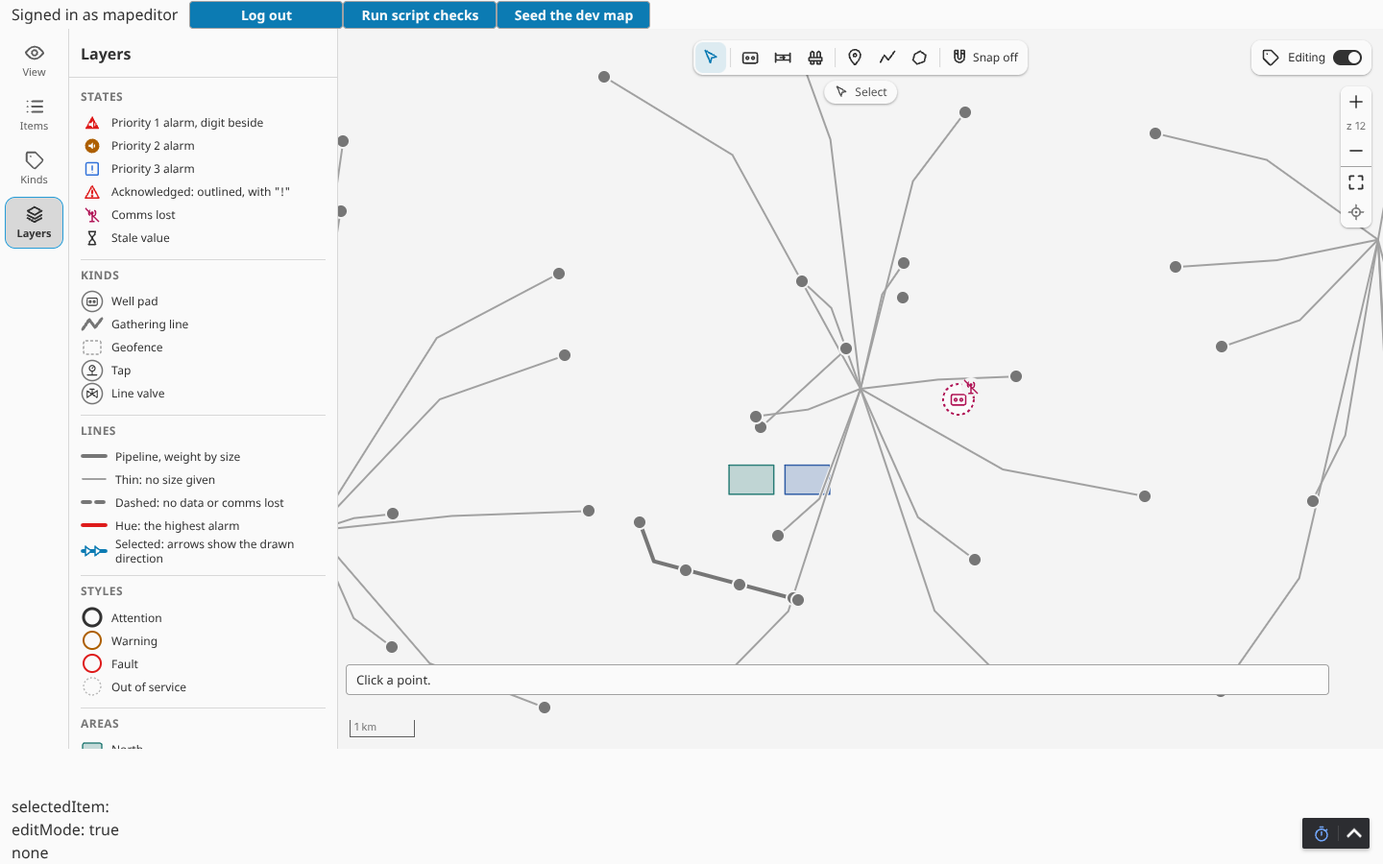
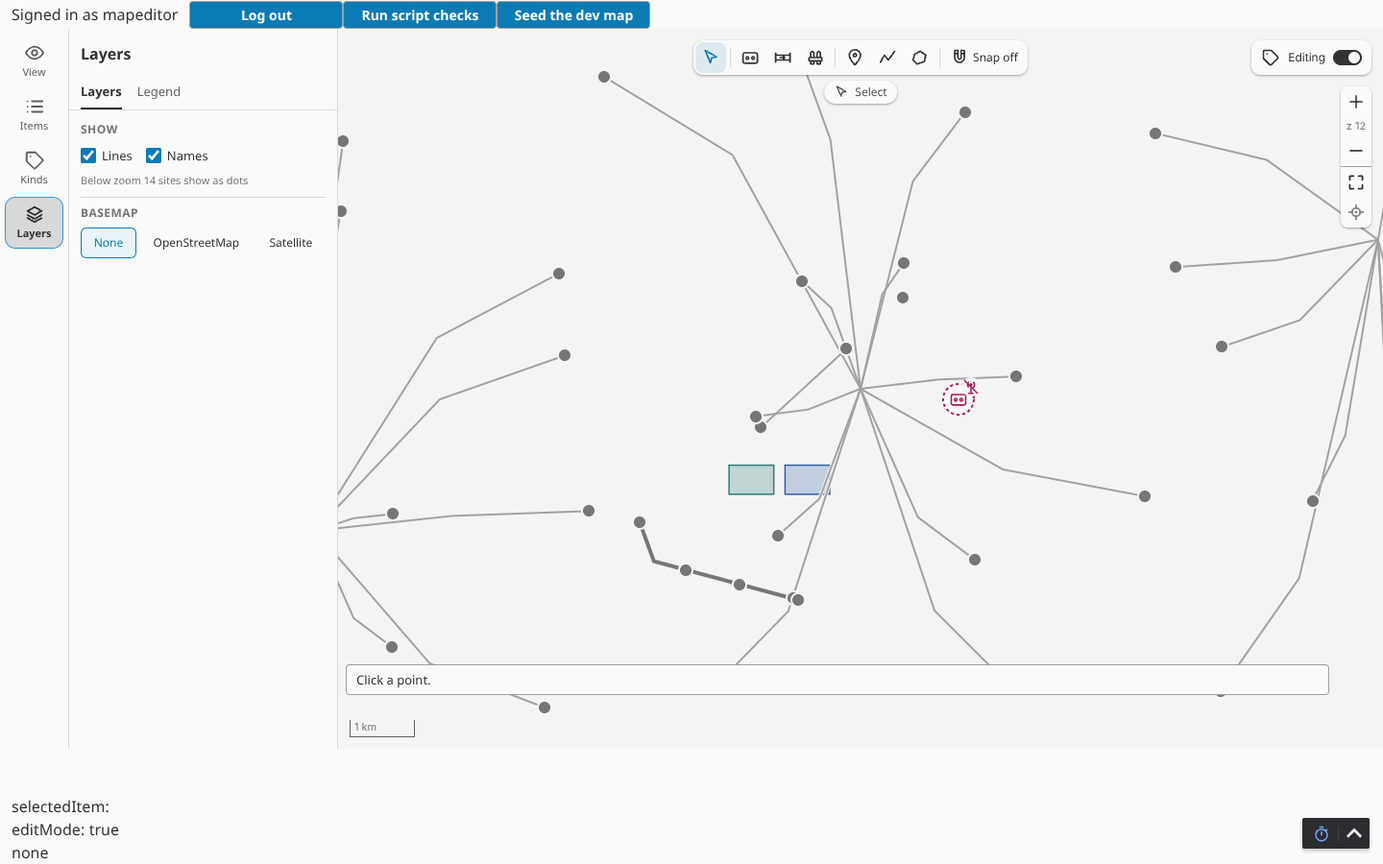
Epic 4 entry 22: the Layers surface's two tabs, Layers and Legend
The owner's "2, the tabs" after the Layers options sheet: under the
surface's header the properties panel's tab row, the Layers tab first
and open on every entry to Edit mode (Show, then Basemap with more than
one basemap) and the Legend tab (the key alone); the chosen tab stays
while Edit mode stays. The legend control's docked host draws the open
tab's part from the same state through the same callbacks, never open;
the floating panel draws everything as before.

studio.spec.mjs follows the tabs and adds the Legend tab row; the Layers
renders are one per tab at 1366 and 1440 px (the scrolled ones removed);
the contract and the changelog say two tabs.

Claude-Session: https://claude.ai/code/session_01F9eVq2qqbKx1YxrgoxuWT6

Changed region(s): [[0.0625, 0.0933, 0.2188, 0.8711]]

diff --git a/web/typescript/MapStudio.tsx b/web/typescript/MapStudio.tsx
@@ -17,7 +17,7 @@ import { EditLevel, MapItemRecord } from './contract';
 import { AdapterStatus, HostLists, NO_HOST_LISTS } from './adapters';
 import { BasemapId, RasterSource } from './basemaps';
 import { EditSwitch } from './EditSwitch';
-import { LegendControl } from './LegendControl';
+import { DockPart, LegendControl } from './LegendControl';
 import { LegendToggle, readToggle, sessionStore, writeToggle } from './legend';
 import { NeedsYouControl } from './NeedsYouControl';
 import { NeedsYouRow } from './needsyou';
@@ -107,6 +107,10 @@ export interface ToastState {
     key: number;
 }
 
+/** The rail's Layers surface's tabs (epic 4 entry 22, the owner's "2, the tabs"): Layers (Show, Basemap) first, then Legend (the key). */
+export type LayersTab = 'layers' | 'legend';
+const LAYERS_TABS: Array<[LayersTab, string]> = [['layers', 'Layers'], ['legend', 'Legend']];
+
 export interface MapStudioState {
     /** The line or area being drawn vertex by vertex (epic 4 entry 4, drawing.ts), or null. */
     drawing: Drawing | null;
@@ -134,6 +138,8 @@ export interface MapStudioState {
      * kept in lock-step with `drawing` and `selected` through drawingState, toolState and selectionState (functional setState).
      */
     studio: StudioState;
+    /** The Layers surface's open tab (entry 22): it stays while Edit mode stays, and every entry to Edit mode opens on Layers. */
+    layersTab: LayersTab;
 }
 
 export type Props = ComponentProps<MapStudioProps, MapStudioDelegateState>;
@@ -160,7 +166,7 @@ function clientLocationWords(store: AbstractUIElementStore): string {
 export class MapStudio extends Component<Props, MapStudioState> {
     state: MapStudioState = {
         drawing: null, snap: false, snapHint: '', toast: null, popup: null, clock: Date.now(), pick: null, selected: null, panel: null,
-        studio: fromProps(this.props.props.editMode)
+        studio: fromProps(this.props.props.editMode), layersTab: 'layers'
     };
 
     mapContainer: HTMLDivElement | null = null;
@@ -247,8 +253,10 @@ export class MapStudio extends Component<Props, MapStudioState> {
     popupAnchor: PopupAnchor | null = null;
     /** The legend bottom-left, which holds the basemap choice (epic 3 entries 6 and 14), and the basemap revision last drawn. */
     legendControl: LegendControl | null = null;
-    /** The rail's Layers surface's host for the docked legend (epic 4 entry 22) while it is mounted, else null. */
+    /** The rail's Layers surface's open tab panel, the docked legend's host (epic 4 entry 22), while it is mounted, else null. */
     private layersHost: HTMLDivElement | null = null;
+    /** The Layers surface's tab and tab panel ids, unique to this component (two maps may share a page). */
+    private readonly layersTabsId = 'mapstudio-layers-' + Math.random().toString(36).slice(2, 8);
     /** The Mapbox logo control, bottom-right, while Satellite is drawn. */
     logoControl: MapboxLogoControl | null = null;
     drawnBasemap = -1;
@@ -307,7 +315,7 @@ export class MapStudio extends Component<Props, MapStudioState> {
         this.legendControl = controls.legend;
         if (this.layersHost) {
             // The Layers surface mounted before the control existed (entry 22): the docked legend is drawn into it now.
-            this.legendControl.dock(this.layersHost);
+            this.legendControl.dock(this.layersHost, this.dockPart());
         }
         // Mapbox's "Improve this map" carries the map's position (its attribution guide): after the control
         // rebuilds its links (its listeners run first) and after every move.
@@ -495,7 +503,8 @@ export class MapStudio extends Component<Props, MapStudioState> {
         if (!on) {
             editing.putToolDown(this);
         }
-        this.setState((prev) => ({ studio: on ? enterEdit(prev.studio) : leaveEdit(prev.studio), toast: on ? prev.toast : null }));
+        this.setState((prev) => ({ studio: on ? enterEdit(prev.studio) : leaveEdit(prev.studio), toast: on ? prev.toast : null,
+            layersTab: on ? 'layers' : prev.layersTab }));
         if (writeProp) {
             try {
                 this.props.store.props.write('editMode', on);
@@ -1069,30 +1078,50 @@ export class MapStudio extends Component<Props, MapStudioState> {
     }
 
     /**
-     * The Layers surface's host for the docked legend (entry 22), handed to the legend control as it mounts and taken back
-     * (null) as it unmounts; the control draws into it and React renders nothing inside it.
+     * The Layers surface's open tab panel, the docked legend's host (entry 22), handed to the legend control as it mounts
+     * and taken back (null) as it unmounts; the control draws the tab's part into it and React renders nothing inside it.
+     * The panel is keyed by the tab, so choosing the other tab mounts a new one with the other part.
      */
     private setLayersHost = (el: HTMLDivElement | null): void => {
         this.layersHost = el;
         if (this.legendControl) {
-            this.legendControl.dock(el);
+            this.legendControl.dock(el, this.dockPart());
         }
     };
 
+    /** The legend's part the open tab shows: the Layers tab the controls (Show, Basemap), the Legend tab the key. */
+    private dockPart(): DockPart {
+        return this.state.layersTab === 'legend' ? 'key' : 'controls';
+    }
+
+    private onLayersTab = (tab: LayersTab): void => this.setState({ layersTab: tab });
+
     /**
-     * The rail's surface (entry 2): the item list with the panel header; Layers, the legend's desktop content docked
-     * (entry 22: the key, Show and Basemap, drawn by the legend control from the panel's own state); or the empty Kinds
-     * surface until its entry. Each surface is keyed, so switching remounts it and the legend's host comes and goes whole.
+     * The rail's surface (entry 2): the item list with the panel header; Layers, the legend's desktop content docked under
+     * two tabs as the properties panel's (entry 22: the Layers tab Show and Basemap, the Legend tab the key, drawn by the
+     * legend control from the panel's own state); or the empty Kinds surface until its entry. Each surface is keyed, so
+     * switching remounts it and the legend's host comes and goes whole.
      */
     private renderDock(delegate: MapStudioDelegateState): React.ReactNode {
         const surface = this.state.studio.surface;
         if (surface === 'layers') {
+            const tab = this.state.layersTab;
+            const id = this.layersTabsId;
             return (
-                <section key="layers" className="mapstudio-dock mapstudio-dock--layers" aria-label="Layers" data-surface="layers">
+                <section key="layers" className="mapstudio-dock mapstudio-dock--layers" aria-label="Layers" data-surface="layers" data-tab={tab}>
                     <header className="mapstudio-dock-header">
                         <div className="mapstudio-dock-title-row"><h2 className="mapstudio-dock-title">Layers</h2></div>
                     </header>
-                    <div className="mapstudio-dock-legend" ref={this.setLayersHost} />
+                    <div className="mapstudio-panel-tabs" role="tablist" aria-label="Layers">
+                        {LAYERS_TABS.map(([key, label]) => (
+                            <button key={key} type="button" role="tab" id={id + '-' + key} data-tab={key} aria-selected={tab === key}
+                                    aria-controls={id + '-panel'}
+                                    className={'mapstudio-panel-tab' + (tab === key ? ' mapstudio-panel-tab--active' : '')}
+                                    onClick={() => this.onLayersTab(key)}>{label}</button>
+                        ))}
+                    </div>
+                    <div key={tab} id={id + '-panel'} className="mapstudio-dock-legend" role="tabpanel" aria-labelledby={id + '-' + tab}
+                         ref={this.setLayersHost} />
                 </section>
             );
         }

diff --git a/web/typescript/LegendControl.ts b/web/typescript/LegendControl.ts
@@ -23,8 +23,9 @@
  * One legend, two places (epic 4 entry 22, the owner's render C of the legend review): in Edit mode the Legend
  * button and its panel leave the map (the stylesheet hides the button from 768 px, the component closes an open
  * panel as the studio comes on) and the rail's Layers surface hands the control a host (`dock`), which the same
- * `fill` draws the desktop content into (the key, Show and Basemap) from the same state, so every setter redraws
- * both, and a toggle or a basemap picked there goes through the same callbacks. The docked copy is never "open":
+ * `fill` draws one part of the desktop content into from the same state: on the surface's Layers tab the controls
+ * (Show, then Basemap), on its Legend tab the key (owner, "2, the tabs"), so every setter redraws both places, and
+ * a toggle or a basemap picked there goes through the same callbacks. The docked copy is never "open":
  * it calls no `onToggle` (`data-legend-open`), `isOpen` is the panel's alone (a map click closes the panel only),
  * it takes no focus when it is drawn and it keeps its own focused control across a redraw.
  */
@@ -78,6 +79,8 @@ interface LegendHost {
     root: HTMLDivElement;
     /** The Layers surface's copy: always the desktop layout (no sheet, no handle or Close), never "open". */
     docked: boolean;
+    /** What it draws: the panel everything; the docked copy its tab's part. */
+    part: 'all' | DockPart;
     body: HTMLDivElement | null;
     basemapGroup: HTMLDivElement | null;
     status: HTMLDivElement | null;
@@ -87,8 +90,11 @@ interface LegendHost {
     closeButton: HTMLButtonElement | null;
 }
 
-function newHost(root: HTMLDivElement, docked: boolean): LegendHost {
-    return { root, docked, body: null, basemapGroup: null, status: null, buttons: new Map(), checkboxes: new Map(), kindsButton: null, closeButton: null };
+/** The part the Layers surface's tab shows (entry 22): `controls` on the Layers tab (Show, Basemap), `key` on the Legend tab. */
+export type DockPart = 'controls' | 'key';
+
+function newHost(root: HTMLDivElement, docked: boolean, part: 'all' | DockPart): LegendHost {
+    return { root, docked, part, body: null, basemapGroup: null, status: null, buttons: new Map(), checkboxes: new Map(), kindsButton: null, closeButton: null };
 }
 
 export class LegendControl implements IControl {
@@ -179,7 +185,7 @@ export class LegendControl implements IControl {
         panel.setAttribute('role', 'region');
         panel.setAttribute('aria-label', 'Legend');
         this.container.insertBefore(panel, this.container.firstChild);
-        this.panel = newHost(panel, false);
+        this.panel = newHost(panel, false, 'all');
         this.button.setAttribute('aria-expanded', 'true');
         this.fill(this.panel);
         // The panel follows the phone breakpoint while it is open (a rotated phone, a resized window).
@@ -197,14 +203,14 @@ export class LegendControl implements IControl {
     }
 
     /**
-     * The docked copy in the rail's Layers surface (entry 22): with an element (the surface's host, as it mounts) the
-     * desktop content is drawn into a wrapper inside it, from the same state as the panel, and every setter redraws it;
-     * with null (the surface unmounting, Edit mode left) it leaves, its listeners taken off. It never takes the focus,
-     * calls no `onToggle` and does not count for `isOpen`.
+     * The docked copy in the rail's Layers surface (entry 22): with an element (the open tab's panel, as it mounts) one
+     * part of the desktop content, the controls or the key, is drawn into a wrapper inside it, from the same state as the
+     * panel, and every setter redraws it; with null (the surface unmounting, Edit mode left) it leaves, its listeners
+     * taken off. It never takes the focus, calls no `onToggle` and does not count for `isOpen`.
      */
-    dock(host: HTMLElement | null): void {
+    dock(host: HTMLElement | null, part: DockPart = 'controls'): void {
         const docked = this.docked;
-        if (docked && host && docked.root.parentNode === host) {
+        if (docked && host && docked.root.parentNode === host && docked.part === part) {
             return;
         }
         if (docked) {
@@ -219,8 +225,9 @@ export class LegendControl implements IControl {
         }
         const root = document.createElement('div');
         root.className = 'mapstudio-legend-dock';
+        root.setAttribute('data-part', part);
         host.appendChild(root);
-        this.docked = newHost(root, true);
+        this.docked = newHost(root, true, part);
         this.fill(this.docked);
     }
 
@@ -295,10 +302,15 @@ export class LegendControl implements IControl {
             body.appendChild(columns);
             this.renderKey(host, columns);
         } else {
-            // Sections in order: the key in the map's words (States first), Show, then Basemap when there is a choice.
-            this.renderKey(host, body);
-            this.renderShow(host, body);
-            if (offersBasemapSwitch(this.offered)) {
+            // Sections in order: the key in the map's words (States first), Show, then Basemap when there is a choice; the
+            // docked copy draws the key alone (the Legend tab) or Show and Basemap alone (the Layers tab).
+            if (host.part !== 'controls') {
+                this.renderKey(host, body);
+            }
+            if (host.part !== 'key') {
+                this.renderShow(host, body);
+            }
+            if (host.part !== 'key' && offersBasemapSwitch(this.offered)) {
                 const basemap = this.section(body, 'Basemap', 'mapstudio-legend-section--basemap');
                 const group = document.createElement('div');
                 group.className = 'mapstudio-basemap-group';

diff --git a/web/typescript/mapstudio.css b/web/typescript/mapstudio.css
@@ -2550,9 +2550,10 @@
     color: var(--mapstudio-secondary);
 }
 
-/* The rail's Layers surface (entry 22): under the header the legend's desktop content as the panel draws it (the key,
-   Show and Basemap), docked: no card, no shadow or corner, no floating width or height, as wide as the dock; its body
-   scrolls inside the dock under the header, as the item list does. The key's rows and samples keep the panel's rules. */
+/* The rail's Layers surface (entry 22): under the header and its tabs the legend's desktop content as the panel draws it
+   (the open tab's part: Show and Basemap, or the key), docked: no card, no shadow or corner, no floating width or height,
+   as wide as the dock; its body scrolls inside the dock under the tabs, as the item list does. The key's rows and samples
+   keep the panel's rules. */
 .mapstudio-dock-legend,
 .mapstudio .mapstudio-legend-dock {
     display: flex;
@@ -2568,6 +2569,16 @@
 
 .mapstudio .mapstudio-legend-dock .mapstudio-legend-body {
     padding: 12px;
+}
+
+/* Its two tabs under the header (the owner's "2, the tabs"): the properties panel's tabs (`.mapstudio-panel-tabs`), whose
+   rule is the header's own here, at the dock's 12 px gutter; the Layers tab holds Show and Basemap, the Legend tab the key. */
+.mapstudio-dock--layers .mapstudio-dock-header {
+    border-bottom: none;
+}
+
+.mapstudio-dock--layers .mapstudio-panel-tabs {
+    padding: 0 12px;
 }
 
 .mapstudio-dock-note,

diff --git a/docs/contract.md b/docs/contract.md
@@ -171,7 +171,7 @@ Not a message, but what a project may rely on. A point map item draws its kind's
 
 **Edit mode's top row and the Items list's search (epic 4 entry 21, the owner's option B; DESIGN.md Edit mode, Direction A, key screen 4).** While the studio shows (Edit mode at level `full`, 768 px and wider) the View-mode top bar, the search field and the Needs you bar in its row with their lists, is hidden (`.mapstudio--editing .mapstudio-topbar`; the controls stay in the DOM for View mode), and the floating toolbar takes the top row at the map inset, centred over the map, level with the Edit switch and clear of it and the zoom card with the properties panel docked (measured on the dev stack with the panel docked: the 348 px toolbar ends 48 px before the switch on the 718 px map at 1366 px, 63 px before it on the 748 px map at 1440 px), the mode pill under it and the connection chip under the pill. Below 1280 px, where DESIGN.md collapses the list to a button (entry 7's), the toolbar keeps entry 4's row under the Edit switch and the chip moves down with it, until that collapse returns the top row there. View mode and phone widths (which keep View mode) draw the top bar as before (the rule that hides it holds from 768 px only); leaving Edit mode shows it again, and as the studio comes on, however it came (the switch, the page's `editMode`, the level arriving), an open search or Needs you list closes, so nothing comes back open (the search keeps its text). The Legend button leaves the map too, and the legend is the rail's Layers surface (entry 22, below). In Edit mode the Needs you summary is hidden while the list's state badges and the markers keep every alarm, comms lost and stale state; View mode is unchanged; this is flagged for the owner's ER-27 review before 0.4.0 ([review-er27.md](review-er27.md), section 4). In Edit mode the search is the Items list's **Search items** field, under the list header's title row: a search glyph, the placeholder "Search items" (its accessible name "Search items by name, kind or asset") and a Clear button while it holds text. Typing keeps the rows whose name, kind name or linked asset's name (from `map.load.reply`'s `assetNames`, as the View-mode search reads them) holds the text, compared as the View-mode search compares (letter case and accents aside), in the list's own order; with none it says "No matches". Esc in the field empties it and goes no further (Details and the selection stay; with the field empty Esc closes Details as before); Clear empties it and keeps the focus in the field; a filtered row is the same row button, so choosing it selects, pans and opens Details as any row does. The text is the list's own and starts empty when the list mounts. Everything runs in the browser: no message goes to the Gateway for it. Sort by, the Filter chips, the grouping by place and the list's footer are entry 7's. For tests the field is `.mapstudio-list-search` (the input `.mapstudio-list-search-input`, the glyph `.mapstudio-list-search-glyph`, Clear `.mapstudio-list-search-clear`), `.mapstudio-list`'s `data-rows` counts the rows shown, each row is `.mapstudio-list-row` (`data-item-id`, `data-kind`, `data-state`, `aria-current` on the selected one), and "No matches" is `.mapstudio-list-empty--search` **[live 8.3.10]** (`e2e/tests/studio.spec.mjs`). Screenshots from the dev stack: [the top row at 1366 px with Details docked](screenshots/mapstudio-studio-top-row-1366.png), [at 1440 px](screenshots/mapstudio-studio-top-row-1440.png), [the connection chip under the pill](screenshots/mapstudio-studio-top-row-chip-1366.png) and [the list filtered by "swd"](screenshots/mapstudio-studio-search-1366.png).
 
-**The legend in the rail's Layers surface (epic 4 entry 22, the owner's render C of the legend review).** While the studio shows (Edit mode at level `full`, 768 px and wider) the Legend button leaves the map as the top bar does (`.mapstudio--editing .mapstudio-legend-button`, hidden from 768 px; the control stays in the DOM for View mode) and the scale bar stays bottom-left alone at the map inset, its bottom edge where the button's was; a Legend panel open as the studio comes on, however it came (the switch, the page's `editMode`, the level arriving), closes and the focus leaves it, so nothing comes back open. The rail's Layers surface, until now "Nothing here yet", is the dock titled Layers, as wide as the list (256 px at 1366, 280 px from 1440), holding the legend's desktop content as the panel draws it and from the same state: the key (States, Kinds, Lines, and Styles and Areas when a kind setup turns them on), Show (the Lines and Names checkboxes and the zoom 14 note) and, only when the setup lists more than one basemap, Basemap with the refusal or tile status in words under its buttons. It is docked, not a card: flat on the dock with no shadow, corner or floating size, its body scrolling inside the dock under the header. A toggle or a basemap picked there goes through the panel's own callbacks, so it acts and is remembered exactly as in the panel (the toggles for the browser session, "The legend's key and toggles" below; the basemap as the browser's choice, [basemaps.md](basemaps.md)), and View mode's panel shows it once Edit mode is left. The docked legend is never open: it leaves `data-legend-open` to the panel, and a map click, which closes the panel, leaves it be. View mode and phone widths (which keep View mode) keep the Legend button with its panel or sheet as before. The Units row (entry 19) is not in it yet. Everything runs in the browser: no message, prop or contract version changes. For tests the surface is `.mapstudio-dock--layers` (`data-surface="layers"`) and the legend in it `.mapstudio-legend-dock`, holding the panel's own hooks (`.mapstudio-legend-body`, `.mapstudio-legend-section--states` and the other sections, `.mapstudio-legend-heading`, the key's rows, `.mapstudio-legend-toggle` with `data-toggle`, `.mapstudio-basemap-button` with `data-basemap` and `aria-pressed`, `.mapstudio-basemap-status`) **[live 8.3.10]** (`e2e/tests/studio.spec.mjs`). Screenshots from the dev stack: [Layers at 1366 px](screenshots/mapstudio-studio-layers-1366.png), [scrolled to Show and Basemap](screenshots/mapstudio-studio-layers-end-1366.png) and [at 1440 px](screenshots/mapstudio-studio-layers-1440.png).
+**The legend in the rail's Layers surface (epic 4 entry 22, the owner's render C of the legend review).** While the studio shows (Edit mode at level `full`, 768 px and wider) the Legend button leaves the map as the top bar does (`.mapstudio--editing .mapstudio-legend-button`, hidden from 768 px; the control stays in the DOM for View mode) and the scale bar stays bottom-left alone at the map inset, its bottom edge where the button's was; a Legend panel open as the studio comes on, however it came (the switch, the page's `editMode`, the level arriving), closes and the focus leaves it, so nothing comes back open. The rail's Layers surface, until now "Nothing here yet", is the dock titled Layers, as wide as the list (256 px at 1366, 280 px from 1440), holding the legend's desktop content as the panel draws it and from the same state, under two tabs that look and behave as the properties panel's (the owner's "2, the tabs"; `role="tablist"`, the open tab underlined): the **Layers** tab, first and open on every entry to Edit mode, holds Show (the Lines and Names checkboxes and the zoom 14 note) and, only when the setup lists more than one basemap, Basemap with the refusal or tile status in words under its buttons; the **Legend** tab holds the key alone (States, Kinds, Lines, and Styles and Areas when a kind setup turns them on). The chosen tab stays while Edit mode stays (another rail surface and back keeps it). It is docked, not a card: flat on the dock with no shadow, corner or floating size, its body scrolling inside the dock under the tabs. A toggle or a basemap picked there goes through the panel's own callbacks, so it acts and is remembered exactly as in the panel (the toggles for the browser session, "The legend's key and toggles" below; the basemap as the browser's choice, [basemaps.md](basemaps.md)), and View mode's panel shows it once Edit mode is left. The docked legend is never open: it leaves `data-legend-open` to the panel, and a map click, which closes the panel, leaves it be. View mode and phone widths (which keep View mode) keep the Legend button with its panel or sheet as before. The Units row (entry 19) is not in it yet. Everything runs in the browser: no message, prop or contract version changes. For tests the surface is `.mapstudio-dock--layers` (`data-surface="layers"`, `data-tab` the open tab, `layers` or `legend`), its tabs `.mapstudio-panel-tab` with `role="tab"`, `data-tab` and `aria-selected`, the open tab's panel `[role="tabpanel"]`, and the legend in it `.mapstudio-legend-dock` (`data-part`: `controls` on the Layers tab, `key` on the Legend tab), holding the panel's own hooks (`.mapstudio-legend-body`, `.mapstudio-legend-section--states` and the other sections, `.mapstudio-legend-heading`, the key's rows, `.mapstudio-legend-toggle` with `data-toggle`, `.mapstudio-basemap-button` with `data-basemap` and `aria-pressed`, `.mapstudio-basemap-status`) **[live 8.3.10]** (`e2e/tests/studio.spec.mjs`). Screenshots from the dev stack: [the Layers tab at 1366 px](screenshots/mapstudio-studio-layers-1366.png) and [at 1440 px](screenshots/mapstudio-studio-layers-1440.png), [the Legend tab at 1366 px](screenshots/mapstudio-studio-layers-legend-1366.png) and [at 1440 px](screenshots/mapstudio-studio-layers-legend-1440.png).
 
 **Search (epic 3 entry 9, R4).** A search field sits top-left (DESIGN.md `search-field`: 300 by 40 px, the placeholder "Search assets", its accessible name "Search sites, wells or lines"), the View-mode top bar that entry 3 shares with the Needs you summary. It is View mode's: while the studio shows, the bar is hidden and the search is the Items list's Search items field (epic 4 entry 21, "Edit mode's top row" above); at phone widths, which keep View mode, it stays. A chevron in the field (owner review item 8) opens one alphabetical list of every live map item (no groups and no attention order), and ArrowDown in the empty field opens the same list for the keyboard. As the user types it lists the live map items whose name or linked asset's name holds the text, without regard to letter case or accents, ranked: a name that starts with the text first, then an asset name that does, then the names that hold it, then the asset names that do, by name within each, every match listed (the list scrolls inside its card, 50 vh at most, and is drawn in pages of 50 rows as it scrolls, so a 300-site field opens fast; End and the arrow keys reach rows not drawn yet), each row with the kind's glyph, the name and the kind (or "kind - asset" when the asset matched); with no match it says "No matches". Everything runs in the browser from `map.load.reply` (`items`, `kinds`, `assetNames`): no message goes to the Gateway for a search. The input is an ARIA combobox (`aria-expanded`, `aria-controls`, `aria-autocomplete="list"`, `aria-activedescendant`) over a listbox of options; the arrow keys move the active row and wrap, Home and End jump, Enter chooses the active row (the first when none is), Esc clears the text and closes the list (the map and the legend never see it), a click or a tap chooses a row. Choosing zooms to the item and selects it as a click on it does: a point is shown at zoom 15 at least (its glyph, name and icon KPI all draw from there) with its popup open and `point.click` sent, a line or an area is fitted and selected with no popup (a line's popup is entry 2's); a kept Fit ends; the text is cleared and a polite live region says "<name> selected", and the focus moves into a chosen point's popup (as MapLibre opens it) or stays in the field for a line. While the list is open it joins the field (owner re-test R6): the field's bottom corners are square and the list meets it with no gap and square top corners, so the two read as one panel; closed, the corners round again ([the open list at 1440 px](screenshots/retest-search-open-1440.png)). At phone width (below 768 px) the control is the one top bar, 8 px from the edges and as wide as the map, 48 px tall, that expands with the results inside it, the field's bottom corners square while a list is open; the zoom card sits under it; every target is 44 px; after a choice the field gives the focus up so the keyboard goes away. For tests `.mapstudio-map` carries `data-search-open`, the control is `.mapstudio-topbar` (its row `.mapstudio-topbar-row`, the field `.mapstudio-search-field`, the input `.mapstudio-search-input`, the panel `.mapstudio-search-panel` with `data-results` and `data-shown`, the chevron `.mapstudio-search-chevron`, each row `.mapstudio-search-option` with `data-item-id` and `data-matched`), and the live region is `.mapstudio-search-status` **[live 8.3.10]**.
 

diff --git a/CHANGELOG.md b/CHANGELOG.md
@@ -12,7 +12,7 @@ The map studio (epic-editing), unreleased. Contract 0.4.0; project setup schema 
 - Edit mode is the docked studio's first slice (entry 2; DESIGN.md Layout & Spacing, EXPERIENCE.md Component Patterns): at level `full` and 768 px and wider, the mode rail (View, Items, Kinds, Layers; the last two empty until their entries), one flat item list with each item's live state badge (alarm, comms lost, stale, unlinked) from the same `values.batch` the markers draw from, the properties panel's Details tab (name, kind, latitude and longitude, the asset picker with Unlink) with every field saved when it is finished through one `edits.apply` batch, the floating toolbar with Select and Point and the mode pill naming the mode ("Add a well pad - click the map, then drag to fine-tune"), a point placed by one click and saved at once as the kind list's first point kind with that kind's name as its placeholder (a drag of the pin saves one update per drag end), and Undo and Redo in the list panel's header over one undo stack per session: one step per saved edit, last first, each named on the button ("Undo: link P31", "Undo: rename P31", "Undo: add Well pad"), each sending the reverse batch at the item's current version (a refusal names who changed it in the save status), and Redo replaying in order. The save status (Saved, Saving..., Not saved - the reason) sits in the panel header; the spike's Draw a line tool and its status line stay until entry 4's Line tool replaces them. Phone widths keep View mode; the Style tab, lines, areas, snapping, kind buttons, the Kinds screen, multi-select, Recent changes and the conflict card are later entries.
 - Lines and areas are drawn (entry 4; DESIGN.md Floating draw toolbar, Drawing bar, toast-undo-bar; EXPERIENCE.md Draw, Snap, Toast; AD-19, AD-20): the toolbar holds Select, the kind list's first kinds as buttons (up to three), the generic Point, Line and Area tools (the kind picked in the form after: the Kind row in Details is now a select of the kinds with the item's geometry, saving one `kind` update) and the Snap toggle, off by default; a line or an area is drawn vertex by vertex with no drag, finished by a double-click, Enter or Finish, Backspace removing the last vertex, Esc cancelling to Select; the drawing bar bottom-centre names the kind, the progress ("2 points - 2.9 km - start snapped to CTB1"), the snap indicator ("Snap to CTB1 - click to connect") and what keeps it from finishing, in plain words from Terra Draw's own validation hook (a two-vertex floor, three for an area, and its self-intersection check on an area's ring); a finished drawing is one `edits.apply` batch at once (the kind's name as placeholder, an area's ring unclosed, `ends` from the remembered snaps and never from the coordinates), selected, with Details open on Name and a toast with Undo ("Gathering line added and saved"); the map marks a floating end of the selected line in the selection token and none at a snapped one. The spike's Draw a line toggle, its status line and the dev line kind are gone: the toolbar's tools are the only drawing path, at level `full` and 768 px and wider; the toolbar takes Edit mode's top row (entry 21, below) ([docs/contract.md](docs/contract.md), "Drawing").
 - Edit mode's top row as designed (entry 21, the owner's option B; DESIGN.md Edit mode, Direction A, key screen 4): while the studio shows, the View-mode top bar (the search field and the Needs you bar, with their lists) is hidden and the floating toolbar sits on the top row at the map inset, centred over the map, level with the Edit switch and clear of it and the zoom card with the properties panel docked at 1366 and 1440 px, the mode pill under it and the connection chip under the pill; below 1280 px, where the list's collapse (entry 7) is still to come, the toolbar keeps the row under the switch. View mode and phone widths keep the top bar as before, leaving Edit mode shows it again, and a search or Needs you list open as the studio comes on closes. In Edit mode the Needs you summary is hidden while the list's state badges and the markers keep every alarm, comms lost and stale state; View mode is unchanged; flagged for the owner's ER-27 review before 0.4.0 ([docs/review-er27.md](docs/review-er27.md), section 4). The Items list takes a **Search items** field under its header's title row (a search glyph, "Search items", Clear while it holds text): typing keeps the rows whose name, kind name or linked asset's name holds the text, letter case and accents aside as the View-mode search compares, in the list's order, "No matches" with none; Esc empties it and goes no further, and a filtered row picked is a row click (selected, the map panned, Details open). The list's `data-rows` counts the rows shown; the field's hooks are `.mapstudio-list-search`, `-input`, `-clear` and `.mapstudio-list-empty--search` ([docs/contract.md](docs/contract.md), "Edit mode's top row and the Items list's search"). No message, prop or contract version changes.
-- The legend in the rail's Layers surface (entry 22, the owner's render C of the legend review; DESIGN.md Legend, EXPERIENCE.md Layers): while the studio shows, the Legend button and its panel leave the map (the button hidden from 768 px, a panel open as the studio comes on closed) and the scale bar stays bottom-left alone; the rail's Layers surface, until now "Nothing here yet", holds the legend's desktop content in the dock, drawn from the panel's own state: the key (States, Kinds, Lines, Styles, Areas), Show (the Lines and Names toggles) and Basemap when the setup lists more than one, flat in the dock with no card, its body scrolling inside the dock. A toggle or a basemap picked there acts and is remembered exactly as in the panel, which shows it once Edit mode is left; the docked legend never counts as open (`data-legend-open`, a map click). View mode and phone widths keep the Legend button with its panel or sheet. The surface's hooks are `.mapstudio-dock--layers` and `.mapstudio-legend-dock` ([docs/contract.md](docs/contract.md), "The legend in the rail's Layers surface"). No message, prop or contract version changes.
+- The legend in the rail's Layers surface (entry 22, the owner's render C of the legend review; DESIGN.md Legend, EXPERIENCE.md Layers): while the studio shows, the Legend button and its panel leave the map (the button hidden from 768 px, a panel open as the studio comes on closed) and the scale bar stays bottom-left alone; the rail's Layers surface, until now "Nothing here yet", holds the legend's desktop content in the dock, drawn from the panel's own state, under two tabs as the properties panel's (the owner's "2, the tabs"): **Layers**, first and open on every entry to Edit mode, with Show (the Lines and Names toggles) and Basemap when the setup lists more than one, and **Legend** with the key (States, Kinds, Lines, Styles, Areas); the chosen tab stays while Edit mode stays; flat in the dock with no card, its body scrolling inside the dock. A toggle or a basemap picked there acts and is remembered exactly as in the panel, which shows it once Edit mode is left; the docked legend never counts as open (`data-legend-open`, a map click). View mode and phone widths keep the Legend button with its panel or sheet. The surface's hooks are `.mapstudio-dock--layers` (`data-tab`), its tabs `.mapstudio-panel-tab` (`data-tab`) and `.mapstudio-legend-dock` (`data-part`) ([docs/contract.md](docs/contract.md), "The legend in the rail's Layers surface"). No message, prop or contract version changes.
 
 ## 0.3.0
 

diff --git a/_bmad-output/initiative-flowmap/tickets/epic-editing/tickets/story-the-legend-in-the-rail-s-layers-surface-in-edit-mode-plan.md b/_bmad-output/initiative-flowmap/tickets/epic-editing/tickets/story-the-legend-in-the-rail-s-layers-surface-in-edit-mode-plan.md
@@ -84,6 +84,7 @@ context: ['{project-root}/_bmad-output/initiative-flowmap/ux-map-studio/DESIGN.m
   - Camera padding (not changed, noted): in Edit mode the bottom-left row is the 18 px scale bar alone instead of the 32 px button, so `cameraPadding`'s bottom inset there is 14 px smaller and a row pick centres 7 px lower; no spec measures it in Edit mode.
   - The renders: beside `mapstudio-studio-layers-1366.png` and `-1440.png`, `mapstudio-studio-layers-end-1366.png` and `-1440.png` scrolled to the dock's end, so Show and Basemap are in view for the owner's comparison with render C. The basemap row stubs the OpenStreetMap tiles as `basemaps.spec.mjs` does (a local copy of its stub: the box may not reach the provider), and serves broken tiles for the status row. The 390 px row is a new test in the 390 px block.
 - 2026-11-05 (implementer, verification): `tsc --noEmit` clean and 353 Jest tests green; `./gradlew clean build --offline` BUILD SUCCESSFUL; `check-contract-versions.sh` OK at 0.4.0; no em dash in the changed files. `studio.spec.mjs` alone on a fresh dev stack: 18 passed (the 8 new or changed tests among them). Whole suite on a fresh dev stack (`ops/up.sh --fresh`) at the tree of commit d024b9b: 142 passed, 7 skipped, 1 failed, the review 390 px dark-theme test with "No Connection to Gateway" on the page (the known flake), which passed rerun alone. `E2E_DOCS=1` runs of `studio.spec.mjs` and `drawing.spec.mjs` (25 passed) rewrote the Edit-mode renders, which no longer show a Legend button, and added the four Layers renders. Left for the owner: comparing the Layers renders with render C.
+- 2026-11-05 (implementer, the tabs): the Layers surface's header carries the properties panel's tab row (`.mapstudio-panel-tabs`, `role="tablist"`, the same classes; the header's own rule dropped so one rule shows, the row at the dock's 12 px gutter). The tabs are plain buttons as the Details tab is (Tab reaches them, Enter or Space chooses; the properties panel has no arrow-key handling, so neither do these). The open tab's panel is keyed by the tab, so a choice mounts a new host and the control draws that tab's part into it (`dock(el, 'controls' | 'key')`, `data-part` on the wrapper); the floating panel draws everything as before, and the KEEP list is kept. The tab is component state (`layersTab`), set to Layers by every entry to Edit mode (`setEditMode`), so it stays across rail surfaces. The spec: the Layers tab shows Show and Basemap and no key row; the Legend tab the key alone, the dock's look, the map click, the tab kept through Items and back, View mode's panel equal to the key then the controls, and a fresh entry back on Layers; the toggle, basemap and entry tests are unchanged but for the Show section standing for the content. Renders: `mapstudio-studio-layers-<width>.png` (the Layers tab) and `mapstudio-studio-layers-legend-<width>.png` (the Legend tab); the `-end` renders removed. Verified: `tsc` clean; `studio.spec.mjs` on a fresh dev stack (Docker started again after the box restarted): 18 passed; the render test under `E2E_DOCS=1`: 2 passed.
 
 ## Review Triage Log
 
